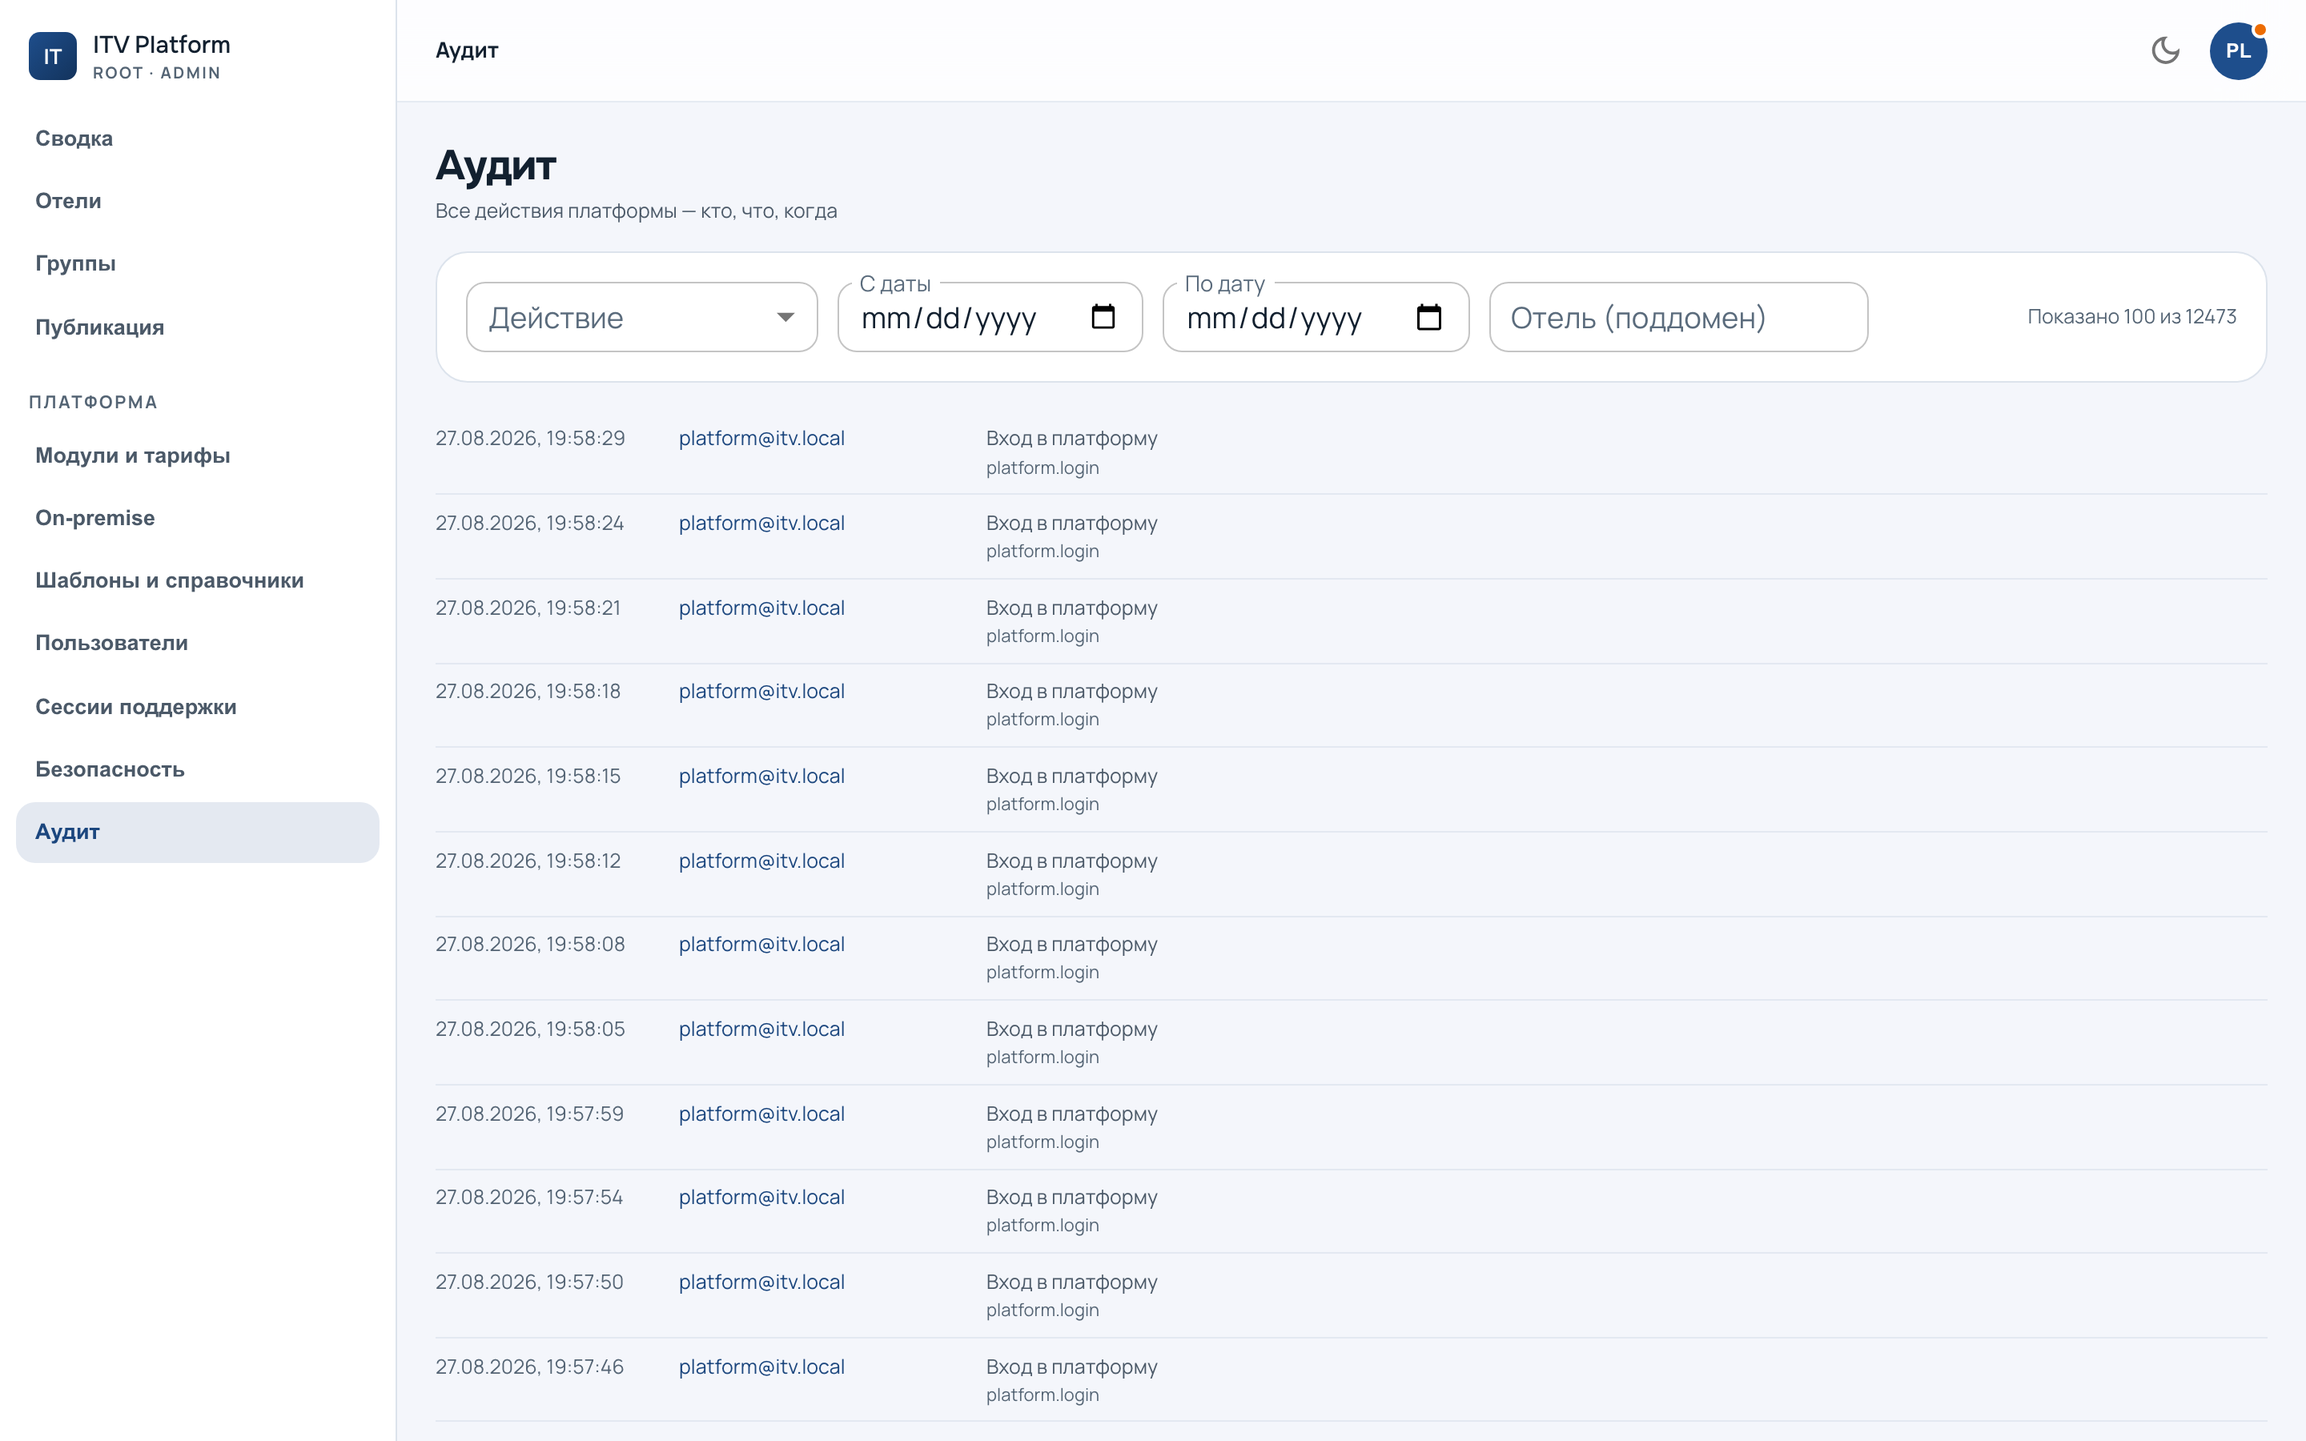
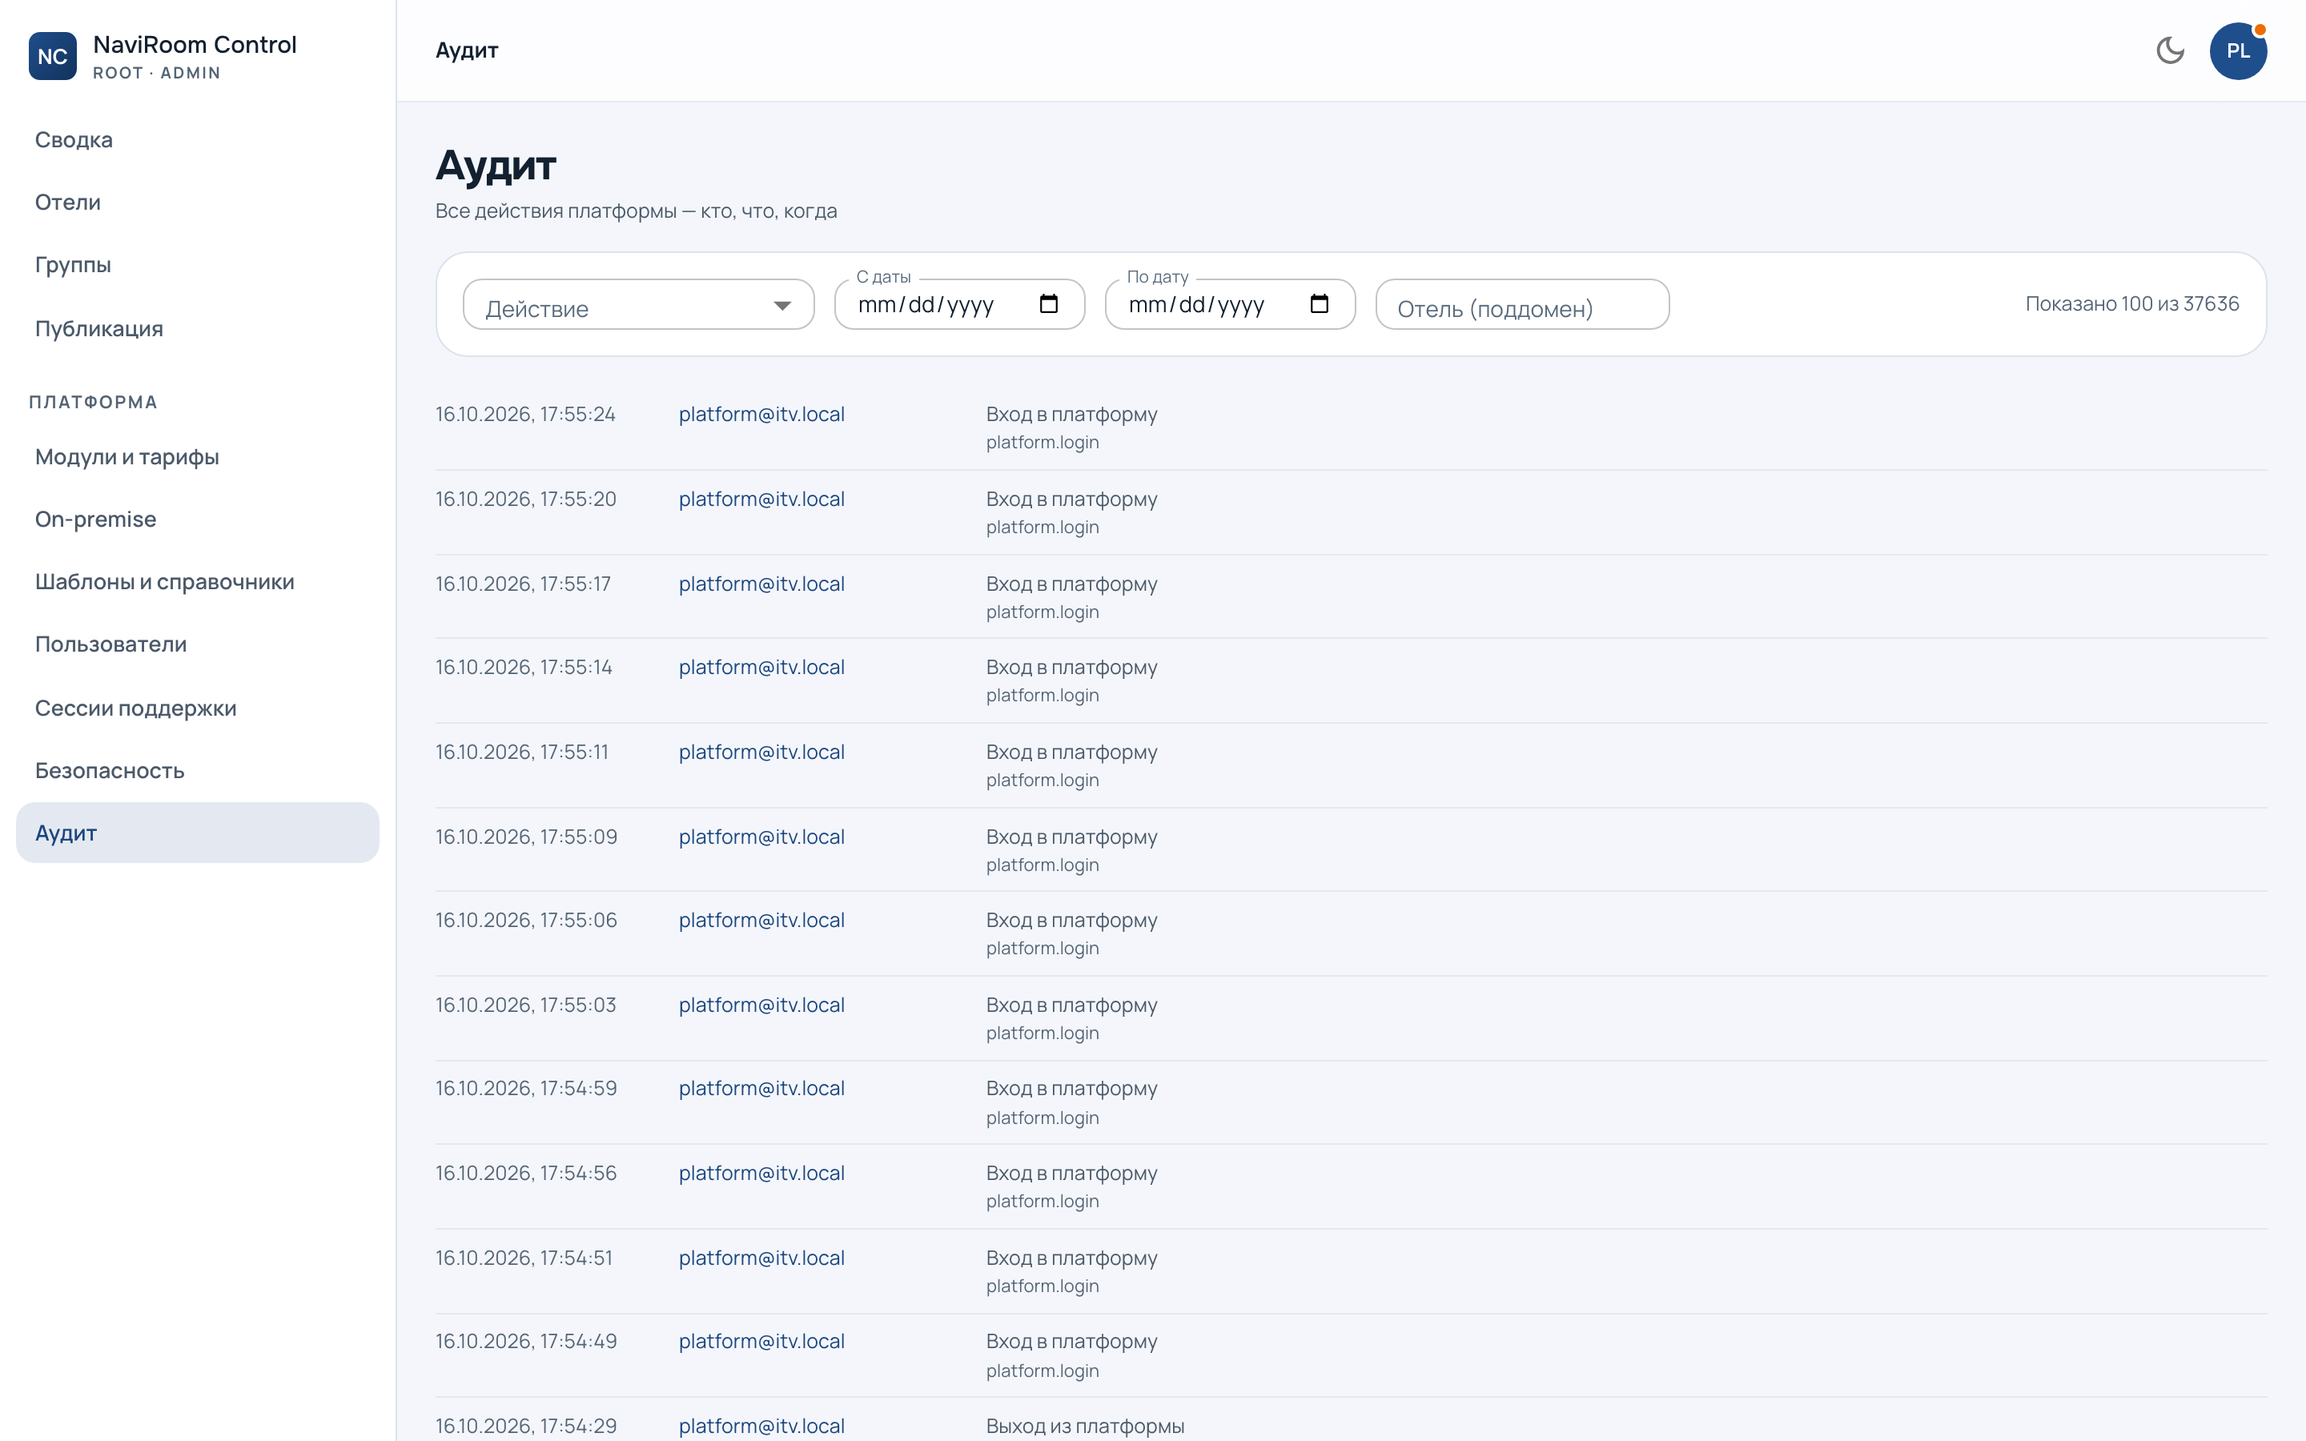
feat(brand): консоль платформы — NaviRoom Control на 4 языках (марка, вход, вкладка /admin, значок NC вместо IT, издатель TOTP); сторож check-brand-name требует NaviRoom Control и ловит NaviRoom Platform; книга консоли — 12 снимков пересняты; глоссарий, справочник стенда, обзор, README, решение 15 (

diff --git a/frontend/src/admin/AdminApp.tsx b/frontend/src/admin/AdminApp.tsx
@@ -31,7 +31,7 @@ import { accent, ink, typo } from './adminTokens';
 import { getMe, platformLogoutHere, platformSession, platformToken } from './adminClient';
 
 /**
- * Корневая админка `/admin` — уровень владельца платформы.
+ * NaviRoom Control — консоль `/admin`, уровень владельца платформы.
  *
  * Раздел держится в состоянии, а не в маршруте: админка — это одно рабочее
  * место с реестрами, а не набор страниц, на которые ссылаются извне. Ссылка
@@ -73,12 +73,24 @@ const SECTIONS: AdminSection[] = [
  */
 function AdminScope({ children }: { children: ReactNode }) {
   const { mode, direction } = useAppTheme();
+  const { t } = useTranslation();
   const theme = useMemo(
     // Шкала персонала поверх бренда: та же палитра, другой масштаб.
     () => compactTheme(createAppTheme(DEFAULT_BRAND_TOKENS, mode, direction)),
     [mode, direction],
   );
   const vars = useMemo(() => adminCssVars(mode), [mode]);
+
+  // Вкладка браузера — имя консоли, а не продукта: `index.html` общий у всех
+  // частей и говорит «NaviRoom», и две открытые вкладки — консоль и панель
+  // отеля — иначе не различить. Уходя, вкладка возвращает прежнее имя.
+  useEffect(() => {
+    const before = document.title;
+    document.title = t('admin.brand.name');
+    return () => {
+      document.title = before;
+    };
+  }, [t]);
 
   return (
     <MuiThemeProvider theme={theme}>

diff --git a/frontend/src/admin/AdminShell.tsx b/frontend/src/admin/AdminShell.tsx
@@ -87,8 +87,11 @@ export function AdminShell({
             fontSize: 13,
             color: accent.onBrand,
           }}
+          data-testid="admin-brand-mark"
+          aria-hidden
         >
-          IT
+          {/* Буквы NaviRoom Control (партия 53); до неё здесь стояло «IT» от ITV. */}
+          NC
         </Box>
         <Box sx={{ minWidth: 0 }}>
           {/*

diff --git a/backend/apps/accounts/services/totp.py b/backend/apps/accounts/services/totp.py
@@ -1,5 +1,5 @@
 """
-TOTP (RFC 6238) для усиленного входа в корневую админку.
+TOTP (RFC 6238) для усиленного входа в консоль платформы — NaviRoom Control.
 
 Реализовано на стандартной библиотеке, а не пакетом: алгоритм — это HMAC и
 динамическое усечение, тридцать строк с фиксированным RFC-описанием, и держать
@@ -64,8 +64,14 @@ def verify(secret: str, code: str, moment: float | None = None) -> bool:
     )
 
 
-def provisioning_uri(secret: str, *, account: str, issuer: str = "NaviRoom") -> str:
-    """otpauth-ссылка для QR в приложении-аутентификаторе."""
+def provisioning_uri(secret: str, *, account: str, issuer: str = "NaviRoom Control") -> str:
+    """
+    otpauth-ссылка для QR в приложении-аутентификаторе.
+
+    Издатель — имя консоли, а не продукта: второй фактор включают только там, и
+    в списке приложения строка должна говорить, КУДА этот код (партия 53). Уже
+    заведённые учётки остаются под прежней подписью — секрет тот же, коды верны.
+    """
     label = quote(f"{issuer}:{account}", safe="")
     return (
         f"otpauth://totp/{label}?secret={secret}"

diff --git a/backend/tests/test_brand_name.py b/backend/tests/test_brand_name.py
@@ -1,5 +1,5 @@
 """
-ВИДИМОЕ ИМЯ ПРОДУКТА НА СТОРОНЕ СЕРВЕРА — NaviRoom (партия 50).
+ВИДИМОЕ ИМЯ ПРОДУКТА НА СТОРОНЕ СЕРВЕРА — NaviRoom (партия 50), консоли — NaviRoom Control (партия 53).
 
 Издатель в приложении-аутентификаторе и заголовок документации API — то, что
 человек видит, не открывая нашего интерфейса. ITV во внутренних именах
@@ -11,11 +11,14 @@ from __future__ import annotations
 from apps.accounts.services.totp import provisioning_uri
 
 
-def test_the_authenticator_shows_naviroom():
-    """УКУС. В приложении-аутентификаторе учётка подписана «NaviRoom»."""
+def test_the_authenticator_shows_naviroom_control():
+    """
+    УКУС. В приложении-аутентификаторе учётка подписана именем консоли —
+    «NaviRoom Control» (партия 53): второй фактор есть только у неё.
+    """
     uri = provisioning_uri("JBSWY3DPEHPK3PXP", account="owner@crystal.local")
-    assert uri.startswith("otpauth://totp/NaviRoom%3Aowner%40crystal.local?")
-    assert "&issuer=NaviRoom&" in uri
+    assert uri.startswith("otpauth://totp/NaviRoom%20Control%3Aowner%40crystal.local?")
+    assert "&issuer=NaviRoom%20Control&" in uri
 
 
 def test_the_api_docs_are_titled_naviroom():

diff --git a/docs/glossary.md b/docs/glossary.md
@@ -1,6 +1,6 @@
 # Глоссарий
 
-Один список терминов на все три книги: инженерную, консоль платформы и панель
+Один список терминов на все три книги: инженерную, NaviRoom Control (консоль платформы) и панель
 отеля. Термины у нас точные, и расхождение в них стоит дороже, чем повтор:
 «заведение» и «точка исполнения» — разные вещи, «роль» и «область» — разные
 вещи, и человек, для которого это одно и то же, однажды даст не тот доступ.
@@ -149,8 +149,9 @@
 
 **Платформа** — мы: владелец системы, обслуживающий все отели.
 
-**Консоль платформы** — наш интерфейс, `/admin` на корневом адресе. Отель о
-нём не знает и в него не попадает.
+**NaviRoom Control** (консоль платформы) — наш интерфейс, `/admin` на корневом
+адресе. Имя пишется латиницей на всех языках, без перевода. Отель о нём не
+знает и в него не попадает.
 
 **Роль** отвечает на вопрос «что можно»:
 

diff --git a/docs/overview.md b/docs/overview.md
@@ -2,7 +2,7 @@
 
 Гостевое веб-приложение отеля: гость открывает его по QR-коду в номере, заказывает еду и услуги,
 переписывается с персоналом, управляет оборудованием номера. Вокруг него — панель управления для
-персонала и отеля и консоль платформы, которая заводит отели.
+персонала и отеля и консоль платформы NaviRoom Control, которая заводит отели.
 
 Документ отвечает на вопрос «где что лежит и почему именно так». Он НЕ пересказывает код: там,
 где утверждение проверяется прогоном, назван тест.

diff --git a/docs/ops/handbook/stand.md b/docs/ops/handbook/stand.md
@@ -25,7 +25,7 @@
 | Гость, «Азур Резорт» | https://azure.app.147.45.245.172.sslip.io |
 | Гость, «Люмен Бутик» | https://lumen.app.147.45.245.172.sslip.io |
 | Панель отеля | адрес своего отеля, раздел `/admin` |
-| Платформенная консоль | https://app.147.45.245.172.sslip.io/admin |
+| NaviRoom Control (консоль платформы) | https://app.147.45.245.172.sslip.io/admin |
 | Корень платформы | https://app.147.45.245.172.sslip.io — лендинг |
 
 Сайт работает по HTTPS, сертификат продлевается сам.

diff --git a/docs/handbook-hotel/room-control.md b/docs/handbook-hotel/room-control.md
@@ -11,7 +11,7 @@
 ## Что здесь ваше, а что наше
 
 **Наше:** оборудование заводим и настраиваем мы — типы номеров, элементы,
-привязка к каналам, уровень плана. Это делается из платформенной консоли вместе
+привязка к каналам, уровень плана. Это делается из нашей консоли NaviRoom Control вместе
 с вашим интегратором.
 
 **Ваше:** видеть состояние связи и понимать, что происходит.

diff --git a/frontend/README.md b/frontend/README.md
@@ -94,7 +94,7 @@ enforced by `scripts/check-locales.mjs`.
 
 The app is split into parts loaded by route (`src/app/parts/*`, wired in
 `src/app/router.tsx` through `src/app/lazyPart.tsx`): guest storefront, hotel
-panel, panel login, tracker, platform console, landing. A guest who scans a QR
+panel, panel login, tracker, platform console (NaviRoom Control), landing. A guest who scans a QR
 code downloads the entry file, the guest part and one dictionary — not the
 panel.
 

diff --git a/docs/handbook-platform/README.md b/docs/handbook-platform/README.md
@@ -1,4 +1,4 @@
-# Консоль платформы
+# NaviRoom Control — консоль платформы
 
 Книга для нашей команды: тех, кто ведёт отели, а не работает в отеле. Всё, что
 здесь описано, отелю не видно и не доступно.
